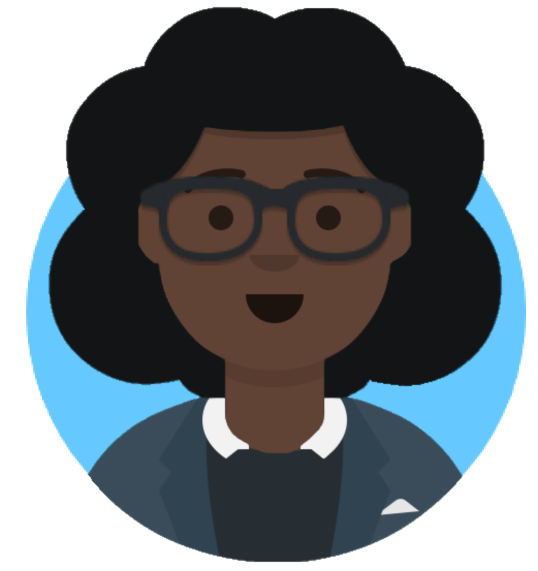
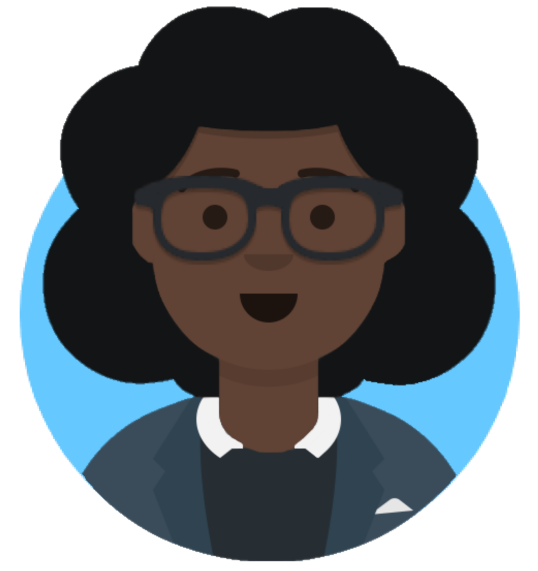
Changed color palette

diff --git a/index.html b/index.html
@@ -33,10 +33,10 @@
 <!-- MAIN INTRO -->  
 
   <main>
-    <section class="intro">
+    <section id="intro">
 
       <div class="content-wrapper">
-        <h1>Hi, I'm Valerie!</h1>
+        <h1>Hi<span>,</span> I'm Valerie!</h1>
         <p>I'm a Front End Web Developer based in the United States.</p>
       </div>
 
@@ -48,7 +48,7 @@
 
           <img src="img/myicon.png" alt="cartoon portrait"/>
                 
-          <h2>About me.</h2>
+          <h2>About me<span>.</span></h2>
           <p>I'm Val, a front-end web devloper who 
           likes to build responsive 
           and accessible experiences on the web. 
@@ -56,7 +56,7 @@
           which is why I was drawn to
           the field. I find it particularly satisfying 
           to see everything come together after a challenge.   
-          When I'm not making cool stuff online, 
+          <br/><br/>When I'm not making cool stuff online, 
           you can find me drawing, sewing stuffed animals, 
           or baking.</p>
 
@@ -64,78 +64,86 @@
 
       </section>
 
+<!-- SKILLS -->           
+<section id="skills">
+  <div class="content-wrapper">
+    <h2>Skills<span>.</span></h2>
+    <ul>
+      <li>CSS3</li>
+      <li>HTML5</li>
+      <li>JavaScript</li>
+      <li>React</li>
+      <li>Git & the Command Line </li>
+      <li>Node.js</li>
+      <li>Github</li> 
+      <li>Flexbox & CSS Grid</li>
+      <li>Data FLow</li>
+      <li>Photoshop</li>
+      <li>Text Editors</li>
+      <li>JSX</li>
+      <li>ES6</li>
+      <li>APIs</li>
+      <li>Devtools</li>
+      <li>Responsive Typography</li>
+      <li>CodeSandbox</li>
+    </ul>
+  </div>         
+</section>
 
 <!-- PROJECTS-->  
       <section id="projects">
         <div class="content-wrapper">
-          <h2>Projects</h2>
+          <h2>Projects<span>.</span></h2>
 
           <div class="individual-projects">
             <a href="https://val-ue.github.io/unplugged/" target="_blank"><img src="img/unpluggedimg.png" alt="unplugged project screenshot"/></a>
             <a href="https://val-ue.github.io/unplugged/" target="_blank"><h3>Unplugged</h3></a>
-            <p>A 3-page, fully responsive website from a design comp. The website is for a retreat aimed at tech industry professionals.</p>
-            <p class="skills"><span>Skills:</span> CSS3, HTML5, Flexbox, Responsive Typography, Media Queries</p>
-            <p class="skills"><span>Tools:</span> Github, Photoshop, Visual Studio Code</p>
+            <div class="project-description">
+              <p class="individial-description">A 3-page, fully responsive website from a design comp. The website is for a retreat aimed at tech industry professionals.</p>
+              <p class="skills"><span>Skills:</span> CSS3, HTML5, Flexbox, Responsive Typography, Media Queries</p>
+              <p class="skills"><span>Tools:</span> Github, Photoshop, Visual Studio Code</p>
+            </div>  
           </div>
 
           <div class="individual-projects">
             <a href="https://val-ue.github.io/word-guessing-game/" target="_blank"><img src="img/guessthewordimg.png" alt="guess the word game screenshot"/></a>
             <a href="https://val-ue.github.io/word-guessing-game/" target="_blank"><h3>Guess the Word Game</h3></a>
-            <p>This game, made with Javascript, lets users guess a randomly generated word one letter at a time. If the player guesses the word correctly in 8 tries, they win!</p>
-            <p class="skills"><span>Skills:</span> JavaScript, HTML5, CSS3</p>
-            <p class="skills"><span>Tools:</span> Github, JSON</p>
+            <div class="project-description">
+              <p class="individial-description">This game, made with Javascript, lets users guess a randomly generated word one letter at a time. If the player guesses the word correctly in 8 tries, they win!</p>
+              <p class="skills"><span>Skills:</span> JavaScript, HTML5, CSS3</p>
+              <p class="skills"><span>Tools:</span> Github, JSON</p>
+            </div>
           </div>
 
           <div class="individual-projects">
             <a href="https://1t99s9.csb.app/" target="_blank"><img src="img/stickynoteimg.png" alt="sticky note iu screenshot"/></a>
             <a href="https://1t99s9.csb.app/" target="_blank"><h3>Sticky Note UI</h3></a>
-            <p>An interactive sticky note app that lets users create, edit, and delete sticky notes. Made with React.</p>
-            <p class="skills"><span>Skills:</span> React, ES6, JSX, Data Flow, DOM Manipulation, Local Storage</p>
-            <p class="skills"><span>Tools:</span> CodeSandbox</p>
+            <div class="project-description">
+              <p class="individial-description">An interactive sticky note app that lets users create, edit, and delete sticky notes. Made with React.</p>
+              <p class="skills"><span>Skills:</span> React, ES6, JSX, Data Flow, DOM Manipulation, Local Storage</p>
+              <p class="skills"><span>Tools:</span> CodeSandbox</p>
+            </div>
           </div>
 
           <div class="individual-projects">
             <a href="https://6bfkcg.csb.app/" target="_blank"><img src="img/nametagimg.png" alt="name tag generator screenshot"/></a>
             <a href="https://6bfkcg.csb.app/" target="_blank"><h3>Name Tag Generator</h3></a>
-            <p>This name tag generator is made with React. By using functional components and ES6 modules, it allows users to create name tags in bulk.</p>
-            <p class="skills"><span>Skills:</span> React, ES6, JSX, Data Flow</p>
-            <p class="skills"><span>Tools:</span> CodeSandbox</p>
+            <div class="project-description">
+              <p class="individial-description">This name tag generator is made with React. By using functional components and ES6 modules, it allows users to create name tags in bulk.</p>
+              <p class="skills"><span>Skills:</span> React, ES6, JSX, Data Flow</p>
+              <p class="skills"><span>Tools:</span> CodeSandbox</p>
+            </div>
           </div>
 
         </div>
       </section>
 
-<!-- SKILLS -->           
-      <section id="skills">
-        <div class="content-wrapper">
-          <h2>Skills.</h2>
-          <ul>
-            <li>CSS3</li>
-            <li>HTML5</li>
-            <li>JavaScript</li>
-            <li>React</li>
-            <li>Git & the Command Line </li>
-            <li>Node.js</li>
-            <li>Github</li> 
-            <li>Flexbox & CSS Grid</li>
-            <li>Data FLow</li>
-            <li>Photoshop</li>
-            <li>Text Editors</li>
-            <li>JSX</li>
-            <li>ES6</li>
-            <li>APIs</li>
-            <li>Devtools</li>
-            <li>Responsive Typography</li>
-            <li>CodeSandbox</li>
-          </ul>
-        </div>         
-      </section>
 
 
 <!-- CONTACT -->            
       <footer>
         <div class="content-wrapper">
-          <h2>Let's Connect!</h2>
+          <h2>Let<span>'</span>s Connect!</h2>
           <address><p>hello@hello.com</p></address>
         </div>
 

diff --git a/css/main.css b/css/main.css
@@ -3,7 +3,7 @@
 
 
 html {
-  background-color: #EEE4F0;
+  background-color: #FAF7F5;
   font-size: 16px;
 
 }
@@ -11,14 +11,19 @@ html {
 body {
   font-size: 1em;
   font-family: 'Nunito Sans', sans-serif;
-  text-align: left;
-  color: #351D77;
+  color: #004070;
+  margin: 0;
 }
  
 a {
   text-decoration: none;
 }
- 
+
+a:visited { 
+ color: #004070; 
+
+}
+
 h1 {
   font-family: 'Alata', sans-serif;
   text-align: center;
@@ -26,8 +31,7 @@ h1 {
 
 h2 {
   font-family: 'Alata', sans-serif;
-  font-weight: 500;
-  font-size: 1.875em;
+
 }
  
 h3, 
@@ -36,25 +40,20 @@ h4 {
   font-size: 1.125em;
 }
  
-p {
-  font-size: .875em;
-}
-  
 address {
   font-style: normal;
 }
- 
-.content-wrapper {
 
-  
-  width: 100%;
-  margin: 0px;
+h1 span, h2 span {
+  color: #65c9ff;
 }
+ 
 
 img {
-width: 90%;
-
+  width: 100%;
+/*--- TEMPORARY ---*/
 }
+
 
 
 /* ----- Base Header - Footer Styles ------*/
@@ -79,6 +78,7 @@ header .content-wrapper {
   align-items: center;
   flex-flow: row wrap;
   margin: 0;
+  width: 100%;
 }
 
 header nav {
@@ -145,47 +145,116 @@ footer p {
 
 /* --------- Mobile Styles ---------*/
 
-.intro {
+#intro {
   
   display: flex;
-  margin-bottom: 150px;
-}
-
-.intro content-wrapper {
+  margin-bottom: 130px;
   justify-content: center;
 }
 
-.intro h1 {
+
+
+#intro h1 {
   font-weight: 600;
   font-size: 8em;
 }
 
-.intro p {
- margin: 0px 30px;
-  font-size: 4em;
+#intro p {
+  margin: 0px 10px;
+  font-size: 3.5em;
   font-weight: 600;
   text-align: center;
+}
 
+#about {
+  display: flex;
+  justify-content: center;
+}
+
+#about .content-wrapper {
+  display: flex;
+  flex-wrap: wrap;
+  width: 90%;
+}
+
+#about img {
+  display: flex;
+  justify-content: center;
+  width: 100%;
+  margin-bottom: 50px;
 }
 
 
+h2 {
+  font-weight: 600;
+  font-size: 5em;
+  margin-bottom: 10px;
+}
+
+#about p {
+  font-size: 2em; 
+}
+
+#skills {
+  display: flex;
+  justify-content: center;
+}
+
+#skills .content-wrapper {
+
+  width: 90%;
+}
 
 
+#skills h2 {
+  margin-bottom: 50px;
+}
+
+#skills li {
+  font-size: 2em;
+  font-weight: 600;
+}
 
 
+#projects {
+  display: flex;
+  justify-content: center;
+}
 
+#projects .content-wrapper {
 
+  width: 90%;
+}
 
+#projects h2 {
+  margin-bottom: 50px;
+}
 
+#projects h3 {
+  font-size: 3em;
 
+}
 
+#projects p {
+  font-size: 1.2em;
+  font-weight: 500;
+}
 
+#projects .individual-projects {
+  margin-bottom: 100px;
+  display: flex;
+  flex-wrap: wrap;
+  justify-content: center;
+  border: solid 5px;
+}
 
-
-
-
-
-
+#projects .project-description {
+  font-size: 2.5em;
+  width: 80%;
+}
+#projects .individial-description {
+  margin-top: 0;
+}
 
 
 
